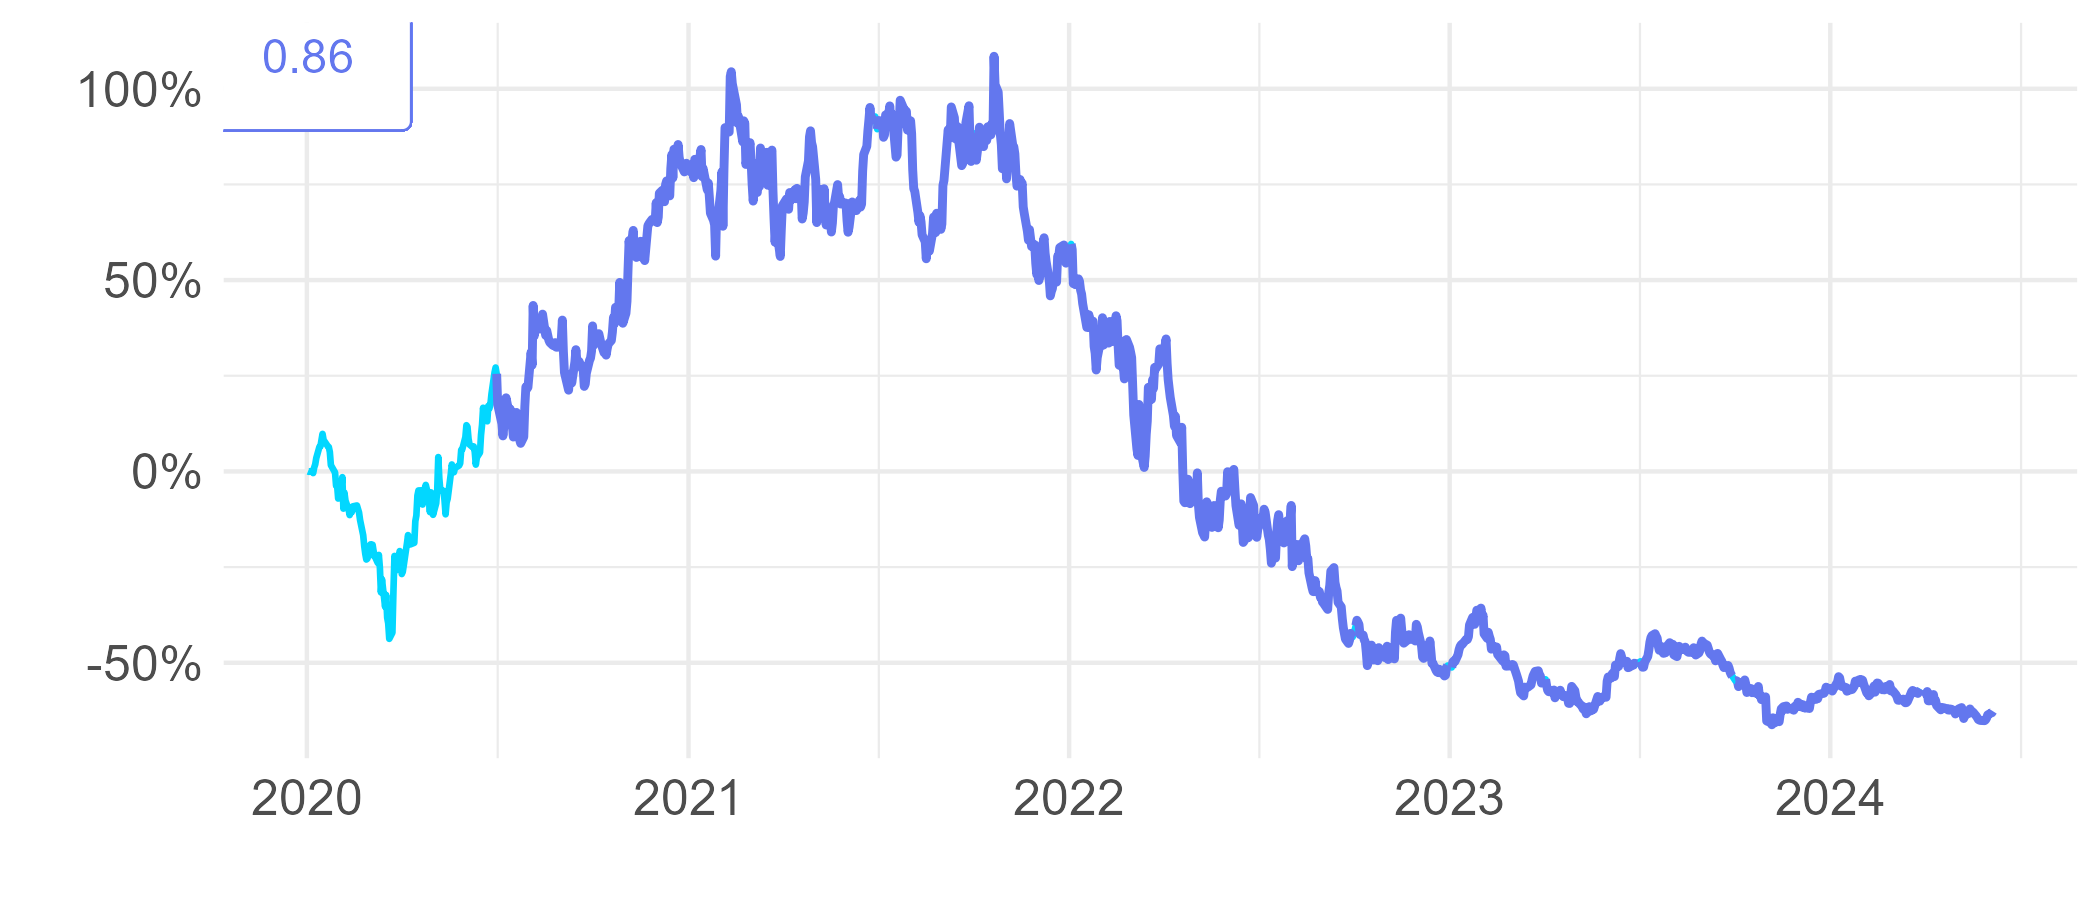
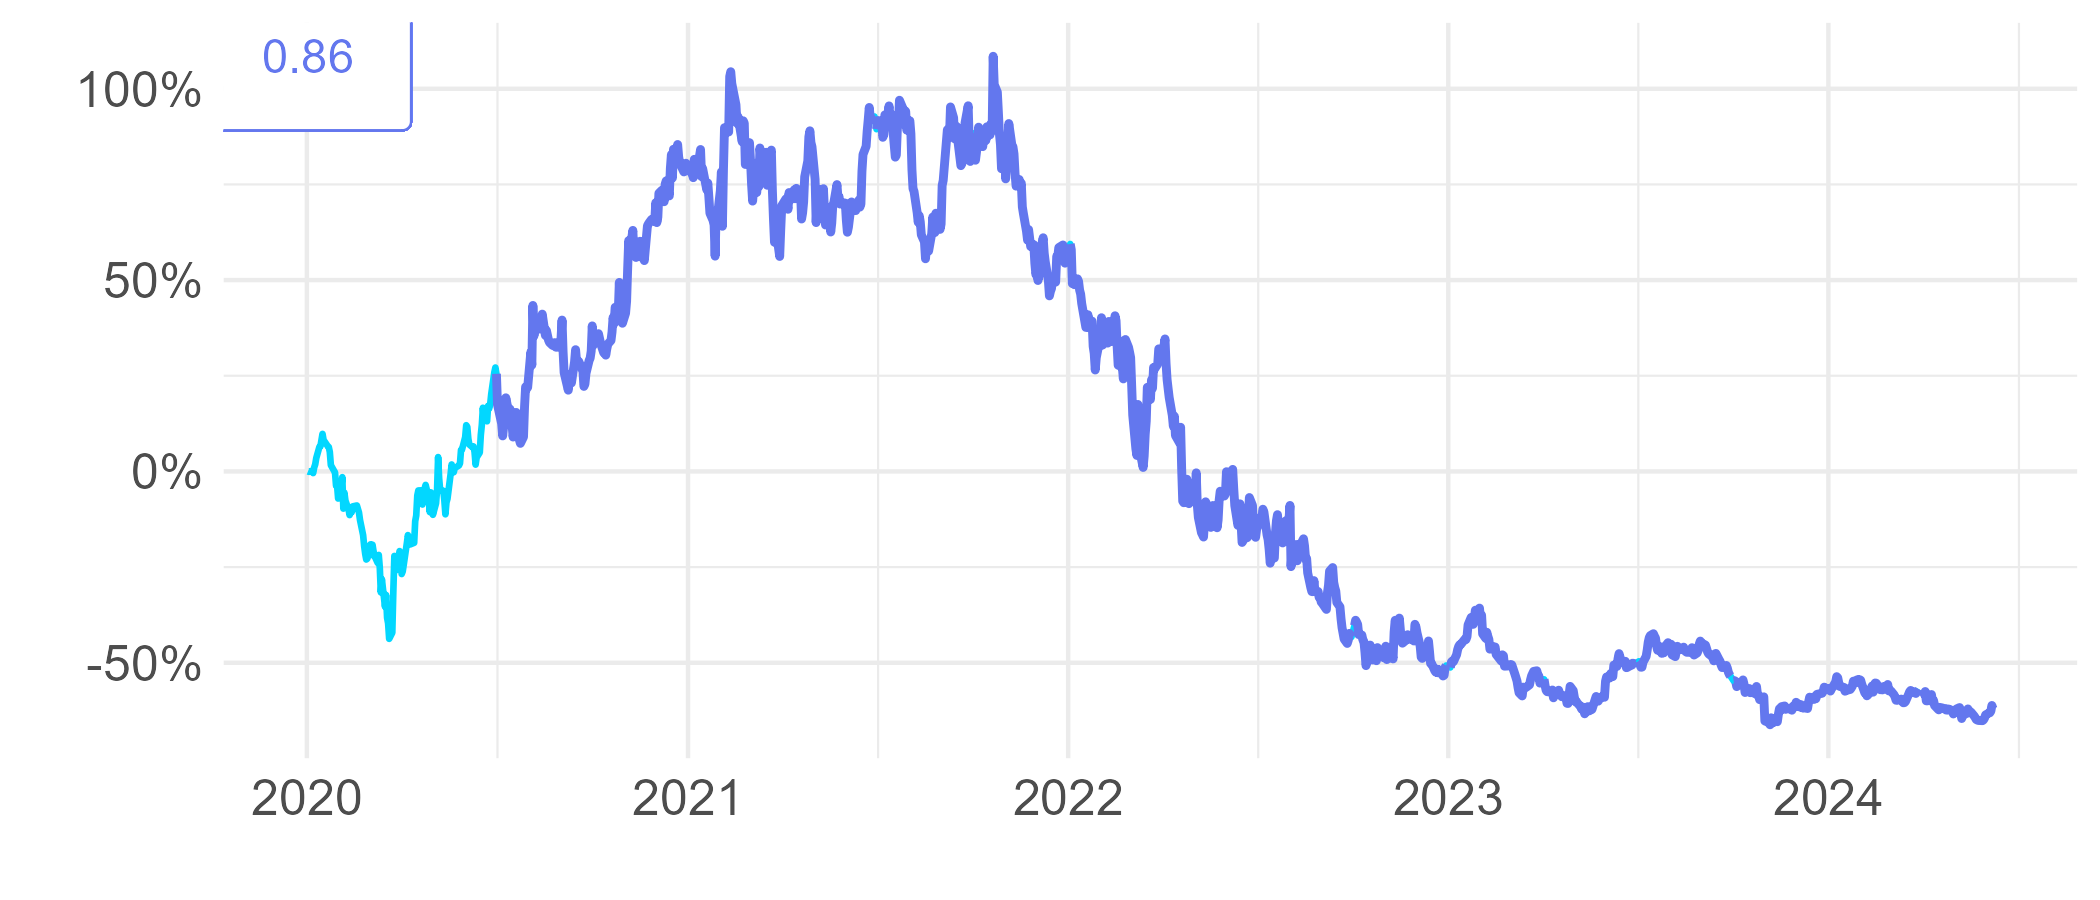
asdf

diff --git a/assets/images/figures/signals_table.html b/assets/images/figures/signals_table.html
@@ -300,17 +300,27 @@ border: 0;
    <td style="text-align:left;background-color: rgba(196, 246, 255, 255) !important;"> 2024-03-31 </td>
   </tr>
   <tr>
-   <td style="text-align:left;"> FICO </td>
-   <td style="text-align:left;"> Technology </td>
+   <td style="text-align:left;"> MTCH </td>
+   <td style="text-align:left;"> Communication Services </td>
    <td style="text-align:left;"> 2024-03-31 </td>
   </tr>
   <tr>
-   <td style="text-align:left;background-color: rgba(196, 246, 255, 255) !important;"> MTCH </td>
-   <td style="text-align:left;background-color: rgba(196, 246, 255, 255) !important;"> Communication Services </td>
+   <td style="text-align:left;background-color: rgba(196, 246, 255, 255) !important;"> FICO </td>
+   <td style="text-align:left;background-color: rgba(196, 246, 255, 255) !important;"> Technology </td>
    <td style="text-align:left;background-color: rgba(196, 246, 255, 255) !important;"> 2024-03-31 </td>
   </tr>
   <tr>
    <td style="text-align:left;"> BR </td>
+   <td style="text-align:left;"> Technology </td>
+   <td style="text-align:left;"> 2024-03-31 </td>
+  </tr>
+  <tr>
+   <td style="text-align:left;background-color: rgba(196, 246, 255, 255) !important;"> JNPR </td>
+   <td style="text-align:left;background-color: rgba(196, 246, 255, 255) !important;"> Technology </td>
+   <td style="text-align:left;background-color: rgba(196, 246, 255, 255) !important;"> 2024-03-31 </td>
+  </tr>
+  <tr>
+   <td style="text-align:left;"> PTC </td>
    <td style="text-align:left;"> Technology </td>
    <td style="text-align:left;"> 2024-03-31 </td>
   </tr>
@@ -320,23 +330,13 @@ border: 0;
    <td style="text-align:left;background-color: rgba(196, 246, 255, 255) !important;"> 2024-03-31 </td>
   </tr>
   <tr>
-   <td style="text-align:left;"> JNPR </td>
-   <td style="text-align:left;"> Technology </td>
+   <td style="text-align:left;"> UNP </td>
+   <td style="text-align:left;"> Industrials </td>
    <td style="text-align:left;"> 2024-03-31 </td>
   </tr>
   <tr>
-   <td style="text-align:left;background-color: rgba(196, 246, 255, 255) !important;"> PTC </td>
+   <td style="text-align:left;background-color: rgba(196, 246, 255, 255) !important;"> SMCI </td>
    <td style="text-align:left;background-color: rgba(196, 246, 255, 255) !important;"> Technology </td>
-   <td style="text-align:left;background-color: rgba(196, 246, 255, 255) !important;"> 2024-03-31 </td>
-  </tr>
-  <tr>
-   <td style="text-align:left;"> SMCI </td>
-   <td style="text-align:left;"> Technology </td>
-   <td style="text-align:left;"> 2024-03-31 </td>
-  </tr>
-  <tr>
-   <td style="text-align:left;background-color: rgba(196, 246, 255, 255) !important;"> UNP </td>
-   <td style="text-align:left;background-color: rgba(196, 246, 255, 255) !important;"> Industrials </td>
    <td style="text-align:left;background-color: rgba(196, 246, 255, 255) !important;"> 2024-03-31 </td>
   </tr>
   <tr>
@@ -353,16 +353,6 @@ border: 0;
    <td style="text-align:left;"> AKAM </td>
    <td style="text-align:left;"> Technology </td>
    <td style="text-align:left;"> 2024-03-31 </td>
-  </tr>
-  <tr>
-   <td style="text-align:left;background-color: rgba(196, 246, 255, 255) !important;"> MU </td>
-   <td style="text-align:left;background-color: rgba(196, 246, 255, 255) !important;"> Technology </td>
-   <td style="text-align:left;background-color: rgba(196, 246, 255, 255) !important;"> 2024-02-29 </td>
-  </tr>
-  <tr>
-   <td style="text-align:left;"> JBL </td>
-   <td style="text-align:left;"> Technology </td>
-   <td style="text-align:left;"> 2024-02-29 </td>
   </tr>
 </tbody>
 </table>

diff --git a/index.html b/index.html
@@ -579,26 +579,6 @@
 </div>
 </div>
 </div>
-<div class="testimonial-content">
-<div class="inner-box">
-<figure class="image-box"><img src="assets/images/signals/14.png" alt=""></figure>
-<div class="author-info">
-<h4></h4>
-<span class="designation"></span>
-<p></p>
-</div>
-</div>
-</div>
-<div class="testimonial-content">
-<div class="inner-box">
-<figure class="image-box"><img src="assets/images/signals/15.png" alt=""></figure>
-<div class="author-info">
-<h4></h4>
-<span class="designation"></span>
-<p></p>
-</div>
-</div>
-</div>
 </div>
 </div>
 </div>
@@ -610,7 +590,7 @@
 <div class="col-lg-3 col-md-6 col-sm-12 counter-column">
 <div class="counter-block wow slideInUp" data-wow-delay="00ms" data-wow-duration="1500ms">
 <div class="count-outer count-box">
-<span class="count-text" data-speed="1500" data-stop="41.11">0</span>
+<span class="count-text" data-speed="1500" data-stop="36.53">0</span>
 </div>
 <h5>Last Year</h5>
 </div>
@@ -618,7 +598,7 @@
 <div class="col-lg-3 col-md-6 col-sm-12 counter-column">
 <div class="counter-block wow slideInUp" data-wow-delay="200ms" data-wow-duration="1500ms">
 <div class="count-outer count-box">
-<span class="count-text" data-speed="1500" data-stop="-7.35">0</span>
+<span class="count-text" data-speed="1500" data-stop="-8.22">0</span>
 </div>
 <h5>Last 3 Months</h5>
 </div>
@@ -626,7 +606,7 @@
 <div class="col-lg-3 col-md-6 col-sm-12 counter-column">
 <div class="counter-block wow slideInUp" data-wow-delay="200ms" data-wow-duration="1500ms">
 <div class="count-outer count-box">
-<span class="count-text" data-speed="1500" data-stop="-0.64">0</span>
+<span class="count-text" data-speed="1500" data-stop="-2.44">0</span>
 </div>
 <h5>Last Month</h5>
 </div>
@@ -634,7 +614,7 @@
 <div class="col-lg-3 col-md-6 col-sm-12 counter-column">
 <div class="counter-block wow slideInUp" data-wow-delay="200ms" data-wow-duration="1500ms">
 <div class="count-outer count-box">
-<span class="count-text" data-speed="1500" data-stop="133.62">0</span>
+<span class="count-text" data-speed="1500" data-stop="133.2">0</span>
 </div>
 <h5>Last 5 Years</h5>
 </div>
